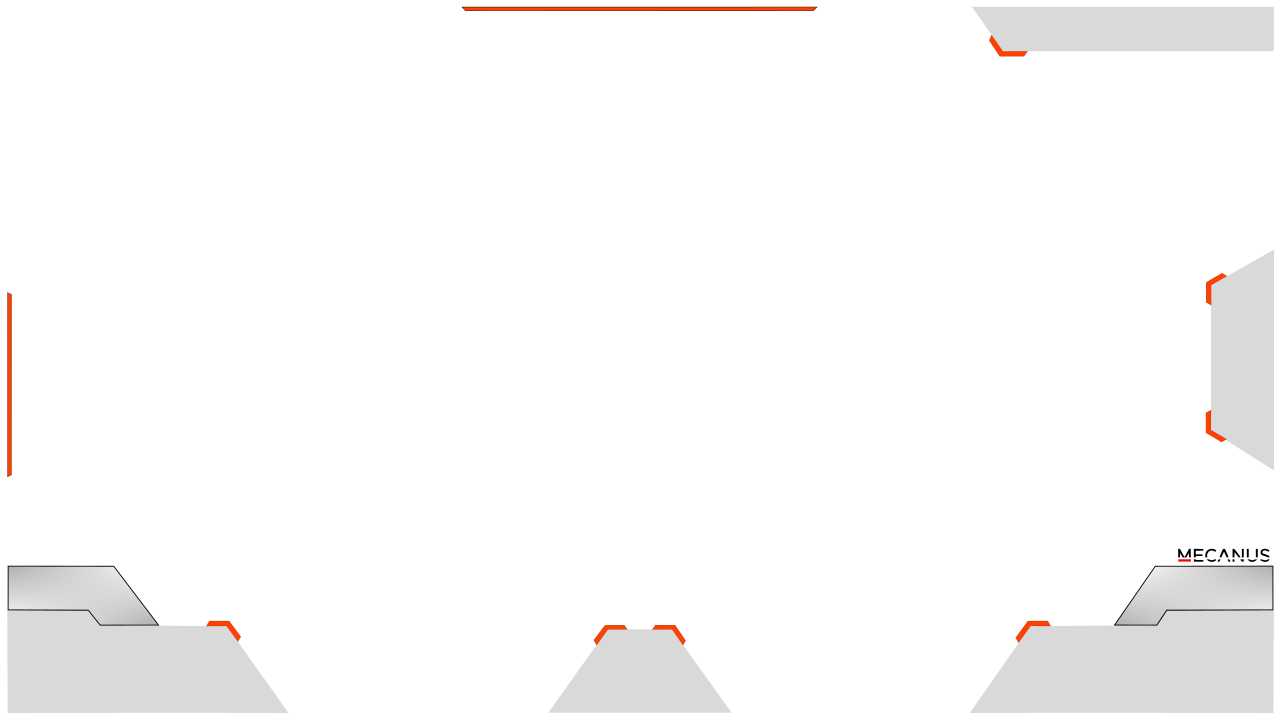
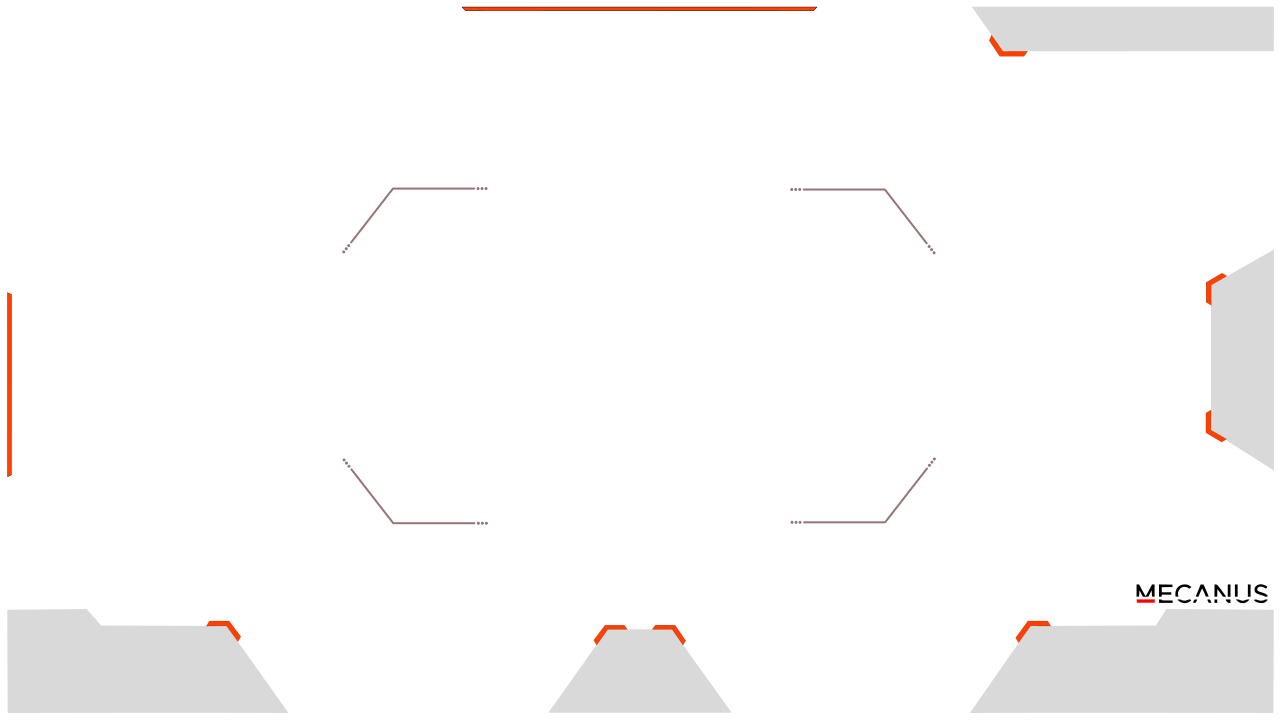
final a falta de pruebas

diff --git a/src/renderer/assets/js/script.js b/src/renderer/assets/js/script.js
@@ -11,8 +11,9 @@ import 'toastr/build/toastr.min.css'
 
 // Naranja: rgba(255,64,0)
 const modeloGroup = new THREE.Group()
-const hudVisor = document.getElementById('dron-container')
-hudVisor.style.visibility = 'hidden'
+// const hudVisor = document.getElementById('dron-container')
+// hudVisor.style.visibility = 'hidden'
+let boton5Pulsado = false
 const config = {
   camera: {
     fov: 75,
@@ -41,6 +42,7 @@ const config = {
     10: { ejeX: 0, ejeY: 0 }
   }
 }
+
 let marcoIA = ''
 let min = 0
 let max = 0.7
@@ -63,17 +65,20 @@ let trackingMode = false
 const clock = new THREE.Clock()
 let lastButtonPressTime = 0
 let zoomLevel = 1
-const zoomSpeed = 2
+const zoomSpeed = 4
 const minZoom = 1
-const maxZoom = 10
+const maxZoom = 20
 let ejex = ''
 let ejey = ''
 let zoomingMax = false
 let zoomingMin = false
 let anguloDronCamaraX = 0
 let anguloDronCamaraY = 0
-let targetDistance = '---------'
+let targetDistance = 3500
 let secondTracking = false
+let efectiveWatch = targetDistance / zoomLevel
+let ia_status = false
+let target_status = false
 GamepadManager.init()
 document.documentElement.style.setProperty('--zoomLevel', zoomLevel)
 
@@ -141,6 +146,65 @@ class Map {
     }
   }
 }
+class Marcadores {
+  constructor() {
+    this.ia = document.createElement('div')
+    this.target = document.createElement('div')
+    this.initStyles()
+  }
+
+  initStyles() {
+    this.ia.style.cssText = `
+      position: fixed;
+      top: 56.6%;
+      left: 97.1%;
+      clip-path: polygon(0% 0%, 100% 0%, 100% 100%, 0% 70%);
+      width: 4.2%;
+      height: 13%;
+      background-color: transparent;
+      transform: translate(-50%, -50%);
+      z-index: 10;
+      pointer-events: none;`
+
+    this.target.style.cssText = `
+      position: fixed;
+      top: 42.8%;
+      left: 97.1%;
+      width: 4.2%;
+      height: 13%;
+      clip-path: polygon(0% 100%, 100% 100%, 100% 0%, 0% 30%);
+      background-color: transparent;
+      transform: translate(-50%, -50%);
+      z-index: 10;
+      pointer-events: none;`
+
+    document.body.appendChild(this.ia)
+    document.body.appendChild(this.target)
+  }
+
+  activateIA() {
+    ia_status = !ia_status
+  }
+
+  activateTarget() {
+    target_status = !target_status
+  }
+
+  update() {
+    if (ia_status) {
+      this.ia.style.backgroundColor = `blue`
+    } else {
+      this.ia.style.backgroundColor = 'transparent'
+    }
+    if (target_status) {
+      this.target.style.backgroundColor = 'rgba(255,64,0)'
+    } else {
+      this.target.style.backgroundColor = 'transparent'
+    }
+  }
+}
+
+// Para que funcione, asegúrate de instanciar la clase:
 
 class Viewfinder {
   constructor() {
@@ -414,7 +478,7 @@ class ZoomIndicator {
   }
 
   update(zoomLevel) {
-    this.element.textContent = ` x${zoomLevel.toFixed(1)}`
+    this.element.textContent = ` x${(zoomLevel * 1.525 - 0.5).toFixed(1)}`
 
     // this.element.style.display = followDrone ? 'block' : 'none'
   }
@@ -495,8 +559,8 @@ class Cross {
     `
   }
   update() {
-    const newPositionH = 20 - (1 - zoomLevel) * 22.5
-    const newPositionV = 20 - (1 - zoomLevel) * 40
+    const newPositionH = 20 - ((1 - zoomLevel) * 22.5) / 2
+    const newPositionV = 20 - ((1 - zoomLevel) * 40) / 2
 
     this.horizontalLineRight.style.left = `${newPositionV}px`
     this.horizontalLineLeft.style.left = `${-20 - newPositionV}px`
@@ -544,25 +608,30 @@ class TrackingFrame {
     const isBehindCamera = projected.z > 1
     const x = (projected.x * 0.5 + 0.5) * window.innerWidth
     const y = (-(projected.y * 0.5) + 0.5) * window.innerHeight
+    efectiveWatch = targetDistance / zoomLevel
+    // if (isDetected) {
+    //   efectiveWatch = efectiveWatch * 2
+    // }
 
-    if (targetDistance <= 800) {
+    if (efectiveWatch <= 80) {
       if (
         trackingMode &&
-        x > window.innerWidth / 2 - 450 &&
+        x > window.innerWidth / 2 - 500 &&
         x < window.innerWidth / 2 + 500 &&
         y > window.innerHeight / 2 - 437.5 &&
         y < window.innerHeight / 2 + 437.5
       ) {
         followDrone = true
       }
+
       this.element.style.border = `5px solid rgba(0, 143, 57)`
       marcoIA = 'verde'
       this.element.style.boxShadow = `0 0 10px  rgba(0, 143, 57, 0.8)`
     } else {
-      if (targetDistance <= 2640 && targetDistance > 800) {
+      if (efectiveWatch <= 132 && efectiveWatch > 60) {
         if (
           trackingMode &&
-          x > window.innerWidth / 2 - 450 &&
+          x > window.innerWidth / 2 - 500 &&
           x < window.innerWidth / 2 + 500 &&
           y > window.innerHeight / 2 - 437.5 &&
           y < window.innerHeight / 2 + 437.5
@@ -572,17 +641,24 @@ class TrackingFrame {
         this.element.style.border = `5px solid rgba(229, 190, 1)`
         marcoIA = 'amarillo'
         this.element.style.boxShadow = `0 0 10px  rgba(229, 190, 1, 0.8)`
-        hudVisor.style.visibility = 'visible'
+        // hudVisor.style.visibility = 'visible'
       } else {
-        if (targetDistance <= 3000) {
+        if (efectiveWatch <= 160 && efectiveWatch > 132) {
           boton0pulsado = true
+
           followDrone = false
           this.isCentered = false
           this.element.style.border = `5px solid rgba(255,64,0)`
           marcoIA = 'naranja'
+          target_status = false
+          marcador.update()
           this.element.style.boxShadow = `0 0 10px  rgba(255,64,0, 0.8)`
-          hudVisor.style.visibility = 'hidden'
+          // hudVisor.style.visibility = 'hidden'
         } else {
+          boton0pulsado = true
+
+          followDrone = false
+          this.isCentered = false
           this.element.style.border = `transparent`
           this.element.style.boxShadow = `none`
           marcoIA = 'naranja'
@@ -648,9 +724,13 @@ class Drone {
     this.position.x = config.drone.orbitRadius * Math.cos(this.angle * 1.3) * 2
     this.position.z =
       config.drone.orbitRadius * Math.sin(this.angle * 0.7) +
-      1700 +
-      1500 * Math.cos(clock.getElapsedTime() / 12)
-    this.position.y = config.drone.height + Math.sin(this.angle * 2) * config.drone.bobAmount + 600
+      2000 +
+      1700 * Math.cos(clock.getElapsedTime() / 12)
+    this.position.y =
+      config.drone.height +
+      Math.sin(this.angle * 2) * config.drone.bobAmount +
+      400 +
+      100 * Math.cos(clock.getElapsedTime() / 12)
     let angleInRadiansX = -Math.atan2(this.position.z, this.position.x) + Math.PI + Math.PI / 2
     let angleInRadiansY = Math.atan2(this.position.y, this.position.z)
     targetDistance = ` ${Math.sqrt(
@@ -668,6 +748,7 @@ class Drone {
     this.updatePosition()
   }
 }
+const marcador = new Marcadores()
 class JoystickControls {
   constructor(camera) {
     this.camera = camera
@@ -735,7 +816,7 @@ class JoystickControls {
     if (gamepadRight.buttons[4]?.touched && gamepadRight.buttons[4]?.value > 0) {
       trackingMode = true
       if (trackingMode) {
-        updateCameraZoom(3)
+        updateCameraZoom(10)
       } else {
         followDrone = false
         updateCameraZoom(1)
@@ -889,6 +970,8 @@ class JoystickControls {
     if (gamepad.buttons[4]?.touched) {
       if (marcoIA !== 'naranja') {
         if (boton1pulsado) {
+          marcador.activateTarget()
+          marcador.update()
           trackingMode = false
           toggleFollowMode()
           boton0pulsado = !boton0pulsado
@@ -922,15 +1005,23 @@ class JoystickControls {
       }
     }
 
-    if (gamepadRight.buttons[5]?.pressed) {
-      if (!boton0pulsado) {
-        if (!followDrone) {
-          trackingMode = false
+    if (gamepadRight.buttons[5]?.touched && gamepadRight.buttons[5]?.value > 0) {
+      if (!boton5Pulsado) {
+        // Cambié el nombre a boton5Pulsado para coincidir con el botón 5
+        if (!boton0pulsado) {
+          if (!followDrone) {
+            trackingMode = false
+          }
+          trackingFrame.toggle()
+          boton1pulsado = !boton1pulsado
+          lastButtonPressTime = now
         }
-        trackingFrame.toggle()
-        boton1pulsado = !boton1pulsado
-        lastButtonPressTime = now
+        marcador.activateIA()
+        marcador.update()
+        boton5Pulsado = true // Marcamos que el botón 5 fue pulsado
       }
+    } else {
+      boton5Pulsado = false // Resetear cuando el botón ya no está siendo presionado
     }
   }
 
@@ -943,7 +1034,11 @@ class JoystickControls {
 function updateCameraZoom(num) {
   if (num > 1) {
     const delta = Math.min(clock.getDelta(), 0.1)
-    zoomLevel = THREE.MathUtils.clamp(zoomLevel + zoomSpeed * delta * 50, minZoom, num)
+    if (zoomLevel < num) {
+      zoomLevel = THREE.MathUtils.clamp(zoomLevel + zoomSpeed * delta * 50, minZoom, num)
+    } else {
+      zoomLevel = THREE.MathUtils.clamp(zoomLevel - zoomSpeed * delta * 50, minZoom, num)
+    }
   }
   if (num === 1) {
     const delta = Math.min(clock.getDelta(), 0.1)
@@ -1205,9 +1300,9 @@ function init() {
         trackingFrame.update(droneInstance.position, camera)
       }
       if (trackingMode) {
-        controls.increaseAngles(30)
-        zoomingMax=false
-        zoomingMin=false
+        controls.increaseAngles(45)
+        zoomingMax = false
+        zoomingMin = false
       }
       if (secondTracking && now <= max) {
         const yawDeg = ((controls.yaw * 180) / Math.PI).toFixed(2)

diff --git a/src/renderer/game.html b/src/renderer/game.html
@@ -11,13 +11,13 @@
 <body>
   <!-- Canvas se insertará aquí via JS -->
   <img src="assets/img/HUD_background.png" alt="Mapa" class="bg-overlay" />
-  <img src="assets/img/HUD_buttons.png" alt="Mapa" class="buttons-overlay" />
+  <img src="assets/img/HUD_botones.png" alt="Mapa" class="buttons-overlay" />
   <img src="assets/img/HUD_crosshair.png" alt="Mapa" class="crosshair-overlay" />
-  <div id="dron-container">
+  <!-- <div id="dron-container"> -->
 
   </div>
   <script type="module" src="assets/js/script.js"></script>
-  <script type="module" src="assets/js/hud_drone.js"></script>
+  <!-- <script type="module" src="assets/js/hud_drone.js"></script> -->
   <script type="module" src="assets/js/redirect.js"></script>
 </body>
 

diff --git a/src/renderer/style.css b/src/renderer/style.css
@@ -78,4 +78,5 @@ canvas {
   top: 0;
   left: 0;
   z-index: 0;
+
 }
